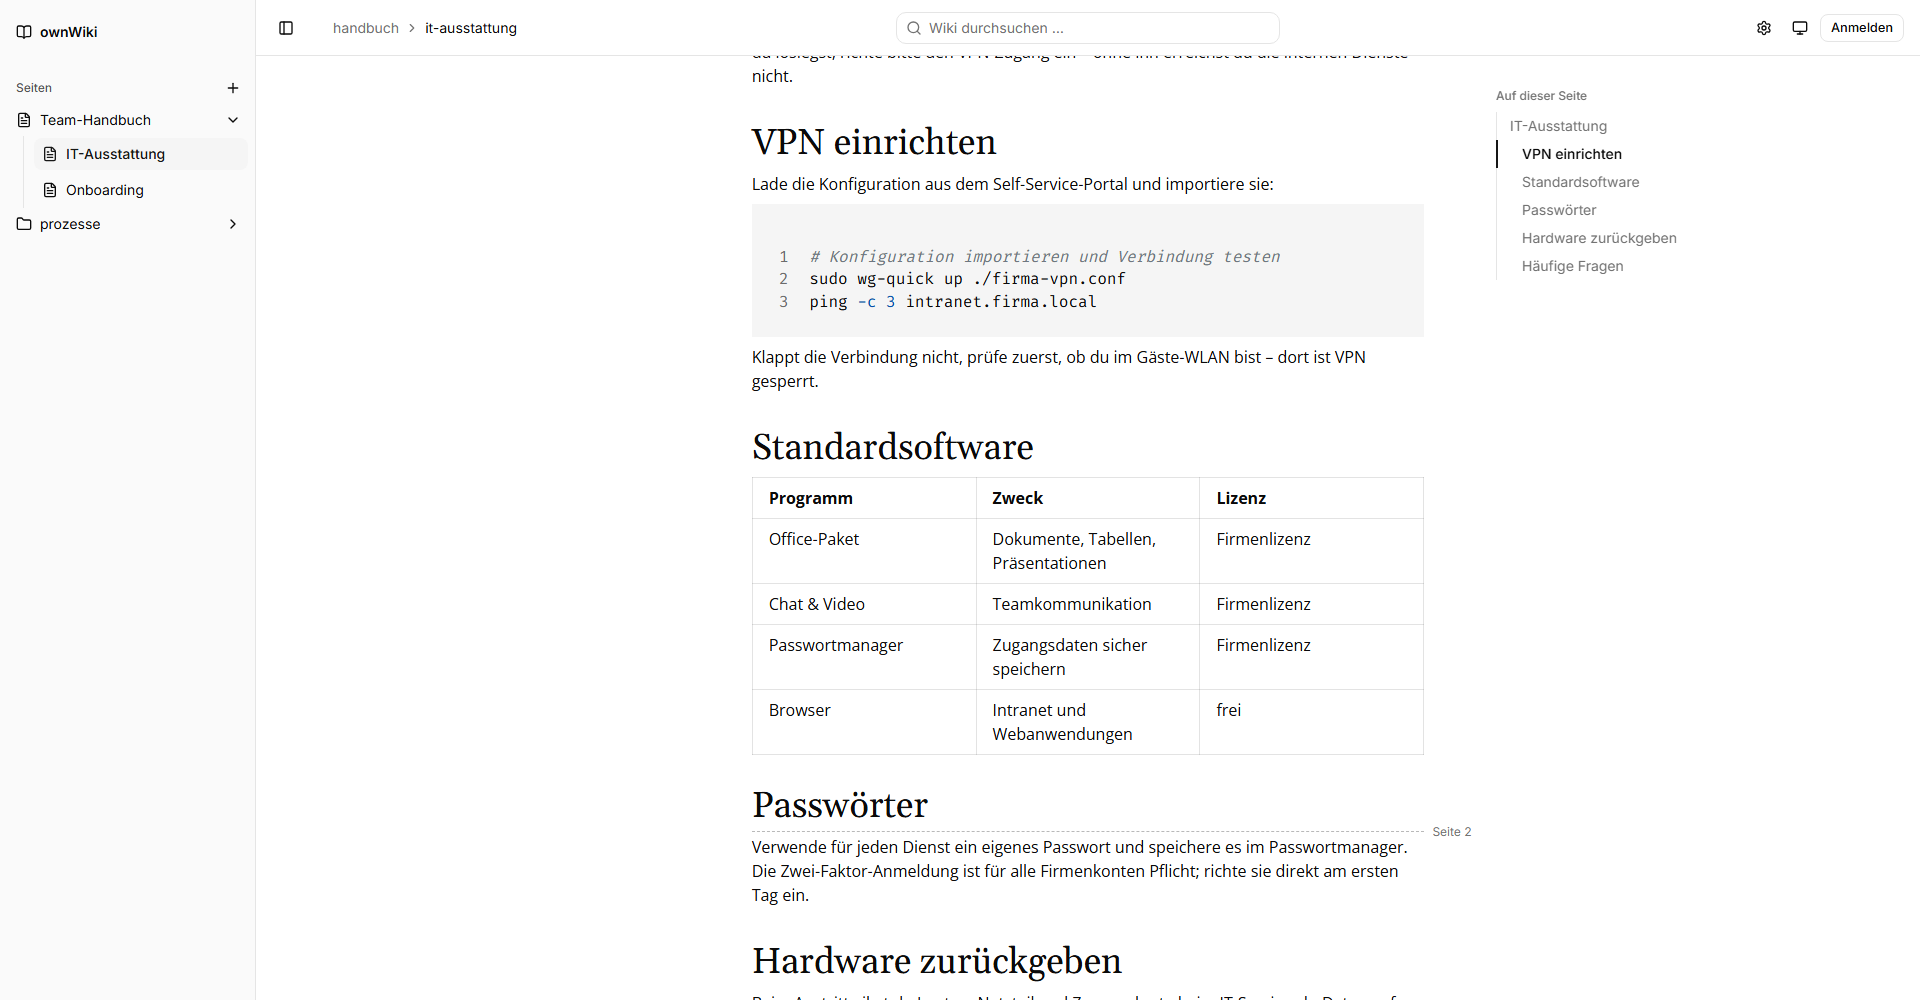
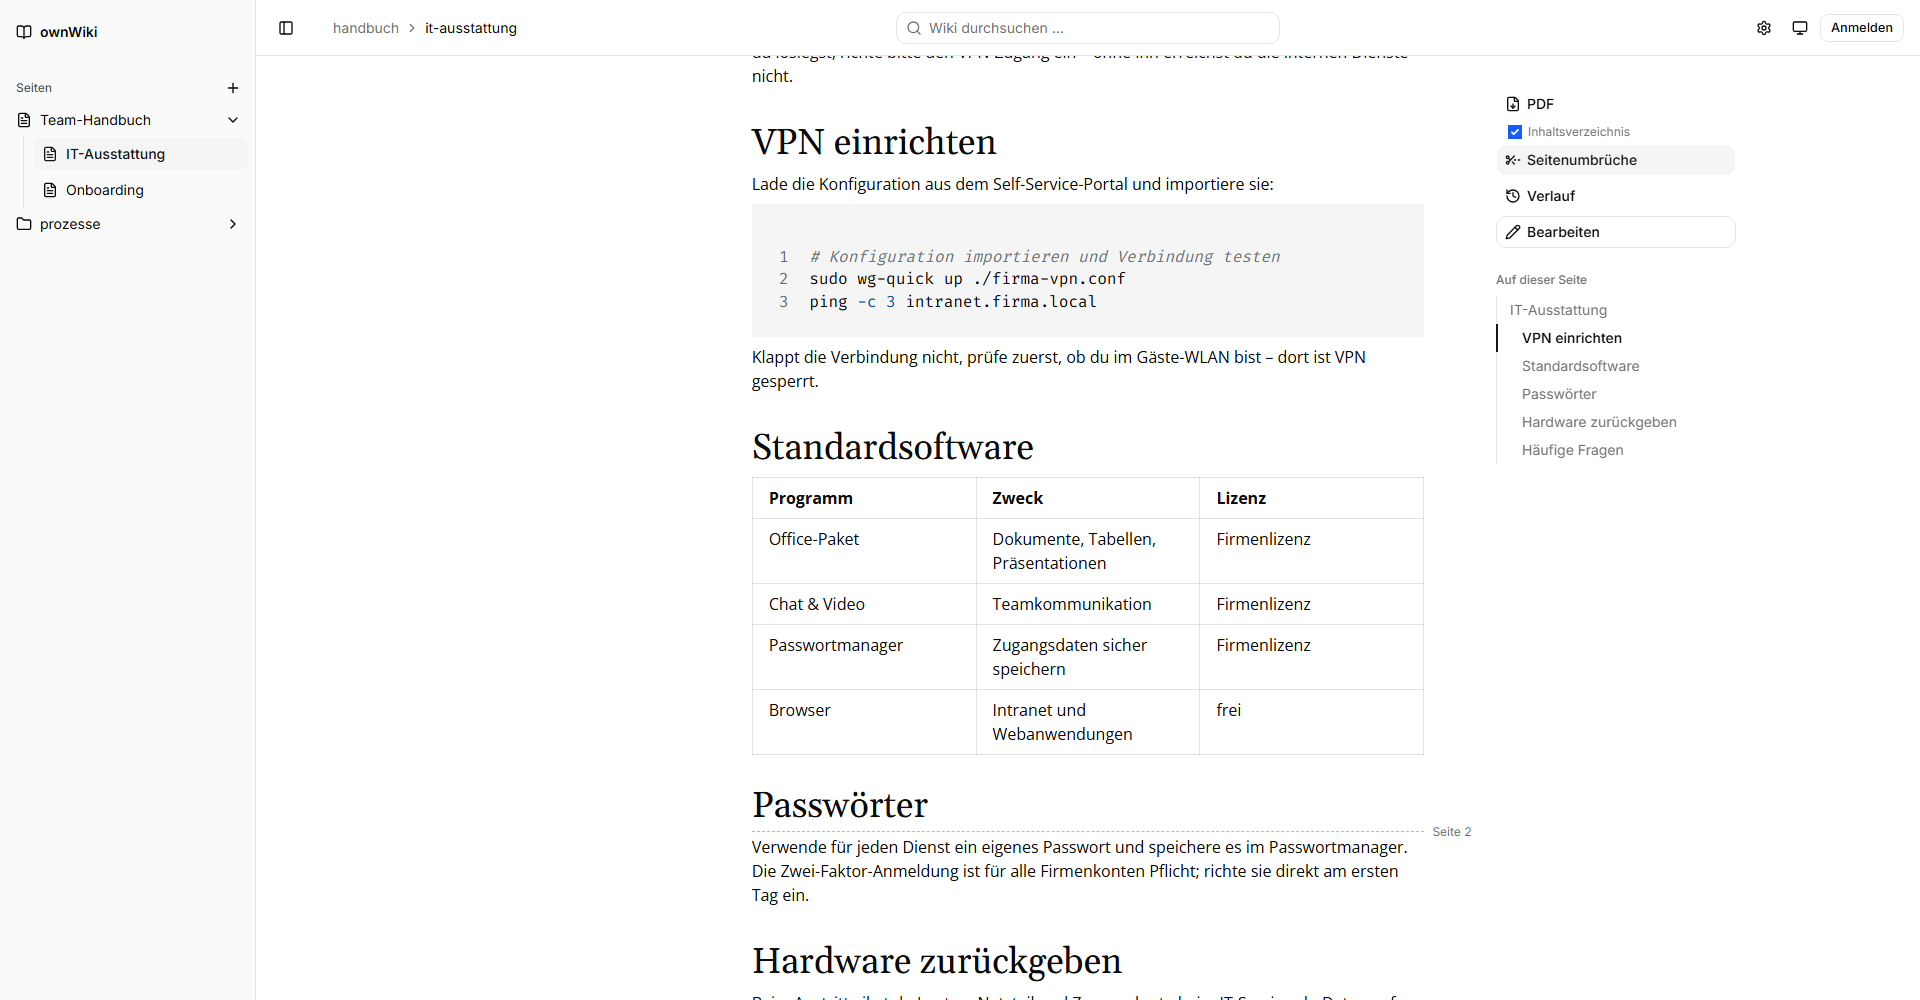
Update the README for the moved page actions

Changed region(s): [[0.7812, 0.093, 0.875, 0.372], [0.7812, 0.403, 0.875, 0.465]]

diff --git a/README.md b/README.md
@@ -35,7 +35,7 @@ Welche Werkzeuge in der Leiste stehen und in welcher Reihenfolge, stellt jede Pe
 
 ### PDF-Export
 
-„PDF“ auf einer Seite lädt sie als PDF herunter; „mit Unterseiten“ nimmt den ganzen Bereich mit, „Ganzes Wiki als PDF“ auf der Startseite alles inklusive Deckblatt. „Seitenweise“ zeigt dieselbe Aufteilung als Vorschau im Browser.
+„PDF“ auf einer Seite lädt sie als PDF herunter; „mit Unterseiten“ nimmt den ganzen Bereich mit, „Ganzes Wiki als PDF“ auf der Startseite alles inklusive Deckblatt. Die Knöpfe dafür stehen rechts neben dem Text über „Auf dieser Seite“, in schmalen Fenstern über dem Text.
 
 Das PDF wird nicht nachgebaut, sondern aus der echten Seite erzeugt: dieselbe Textbreite (A4 mit Rändern), dieselben eingebetteten Schriften, derselbe Editor. Zeilen brechen deshalb an exakt denselben Stellen um. Tabellen und lange Codeblöcke werden zeilenweise auf mehrere Seiten verteilt, der Tabellenkopf wiederholt sich auf jeder Seite.
 
